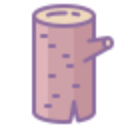
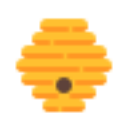
Update

diff --git a/css/popup.css b/css/popup.css
@@ -13,24 +13,22 @@ a {
 :root {
     --the-font: 'Open Sans';
     --the-font-size: 24px;
-    --background-color-secondary: #f7f7f7;
-    --background-color-primary: #fff;
+    --background-color-secondary: #FFBA5F;
+    --background-color-primary: #FFFFFF;
     --border-color-secondary: #d2d2d2;
-    --border-color-primary: #e6e6e6;
+    --border-color-primary: #FFBA5F;
     --border-radius-primary: 6px;
     --border-style-primary: solid;
-    --border-width-thick: 4px;
+    --border-width-thick: 3px;
     --border-width-thin: 1px;
     --box-shadow-primary: 0 2px 4px 0 hsla(0, 0%, 84%, 0.5);
-    --color-secondary: #000;
-    --color-critical: #ca0000;
-    --color-primary: #585858;
-    --color-link: #0797e1;
-    --color-info: #0797e1;
-    --font-size-big: 17px;
+    --color-secondary: #000000;
+    --color-primary: #FFBA5F;
+    --font-size-big: 2em;
     --font-size-medium: 16px;
     --font-size-primary: 13px;
     --font-size-small: 12px;
+    --font-letter-spacing: .045em;
     --margin-primary: 16px;
     --padding-primary: 16px;
     --padding-secondary: calc(var(--padding-primary) / 2);
@@ -39,6 +37,7 @@ a {
 html {
     font-family: 'Open Sans';
     border-radius: 10px;
+    background: #FFFFFF;
 }
 
 body {
@@ -49,8 +48,14 @@ div.title {
     margin: 0 auto;
 }
 
-div.title>h1 {
-    padding-left: 30px;
+div.title>span {
+    font-size: var(--font-size-big);
+}
+
+div.title>span::before {
+    content: url('./../images/icon48.png');
+    vertical-align: -25%;
+    padding: 0 5px 0 0;
 }
 
 div.docs-dock {}
@@ -62,7 +67,7 @@ ul.docks {
 }
 
 li.dock {
-    border-width: var(--border-width-thin);
+    border-width: var(--border-width-thick);
     border-style: var(--border-style-primary);
     border-color: var(--border-color-primary);
     border-radius: var(--border-radius-primary);
@@ -71,10 +76,9 @@ li.dock {
     padding: var(--padding-primary);
     background-color: var(--background-color-primary);
     overflow: hidden;
-    background: #f5f5f5;
     text-transform: uppercase;
-    letter-spacing: .045em;
-    color: #6772e5;
+    letter-spacing: var(--font-letter-spacing);
+    color: var(--color-primary);
     font-size: 15px;
     font-weight: 600;
 }

diff --git a/html/popup.html b/html/popup.html
@@ -8,36 +8,21 @@
 <body>
     <div class="wrapper">
         <div class="title">
-            <h1>Docs Dock</h1>
+            <span>Docs Hive</span>
         </div>
         <div class="docs-dock">
             <ul class="docks">
-                <a href="https://docker.com" target="blank">
+                <a href="https://docs.docker.com/" target="blank">
                     <li class="dock">
                         <div class="doc">Docker</div>
                     </li>
                 </a>
-                <a href="https://docker.com" target="blank">
+                <a href="https://git-scm.com/docs" target="blank">
                     <li class="dock">
                         <div class="doc">Git</div>
                     </li>
                 </a>
-                <a href="https://docker.com" target="blank">
-                    <li class="dock">
-                        <div class="doc">Ansible</div>
-                    </li>
-                </a>
-                <a href="https://docker.com" target="blank">
-                    <li class="dock">
-                        <div class="doc">Ansible</div>
-                    </li>
-                </a>
-                <a href="https://docker.com" target="blank">
-                    <li class="dock">
-                        <div class="doc">Ansible</div>
-                    </li>
-                </a>
-                <a href="https://docker.com" target="blank">
+                <a href="https://docs.ansible.com/" target="blank">
                     <li class="dock">
                         <div class="doc">Ansible</div>
                     </li>
